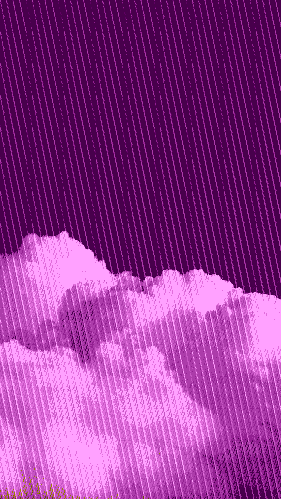
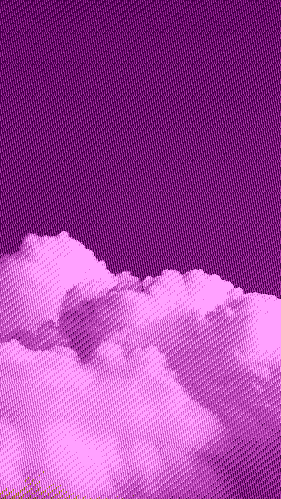
Added brokenspiral and modulosnake

diff --git a/src/dither/ordered/algorithms.rs b/src/dither/ordered/algorithms.rs
@@ -14,9 +14,30 @@ pub enum Wrapping {
 
 pub type OrderedMatrix = Array<f64, Dim<[usize; 2]>>;
 
+#[inline]
+fn gen_n_size_matrix(n: usize) -> OrderedMatrix {
+    Array::<f64, _>::zeros((n, n))
+}
+
+#[inline]
+fn gen_n_size_visitor_matrix(n: usize) -> Vec<Vec<bool>> {
+    vec![vec![false; n]; n]
+}
+
+fn normalize_matrix(matrix: OrderedMatrix) -> OrderedMatrix {
+    let mut max = 0.0;
+    for cell in matrix.iter() {
+        if *cell > max {
+            max = *cell;
+        }
+    }
+
+    matrix / max
+}
+
 pub fn dither_bayer(n: usize) -> OrderedMatrix {
     if n == 1 {
-        return Array::<f64, _>::zeros((1, 1));
+        return gen_n_size_matrix(n);
     }
 
     let nested_matrix = dither_bayer(n / 2);
@@ -34,8 +55,8 @@ pub fn dither_bayer(n: usize) -> OrderedMatrix {
 }
 
 pub fn generate_curve_path_matrix(n: usize, halt_threshold: usize, amplitude: f64, promotion: f64) -> OrderedMatrix {
-    let mut matrix =  Array::<f64, _>::zeros((n, n));
-    let mut visitor_m = vec![vec![false; n]; n];
+    let mut matrix =  gen_n_size_matrix(n);
+    let mut visitor_m = gen_n_size_visitor_matrix(n);
     let curve_end = PI / 2.;
     let c_factor = curve_end / n as f64;
 
@@ -65,22 +86,15 @@ pub fn generate_curve_path_matrix(n: usize, halt_threshold: usize, amplitude: f6
         i = i + 1;
     }
 
-    let mut max = 0.0;
-    for cell in matrix.iter() {
-        if *cell > max {
-            max = *cell;
-        }
-    }
-
-    matrix / max
+    normalize_matrix(matrix)
 }
 
 pub fn generate_zigzag_matrix(n: usize, halt_threshold: usize, wrapping: Wrapping, magnitude: (f64, f64), promotion: (f64, f64)) -> OrderedMatrix {
     let (magnitude_y, magnitude_x) = magnitude;
     let (promotion_y, promotion_x) = promotion;
     
-    let mut matrix =  Array::<f64, _>::zeros((n, n));
-    let mut visitor_m = vec![vec![false; n]; n];
+    let mut matrix =  gen_n_size_matrix(n);
+    let mut visitor_m = gen_n_size_visitor_matrix(n);
 
     let mut i = 0;
     let mut h = 0;
@@ -183,12 +197,119 @@ pub fn generate_zigzag_matrix(n: usize, halt_threshold: usize, wrapping: Wrappin
         i = i + 1;
     }
 
-    let mut max = 0.0;
-    for cell in matrix.iter() {
-        if *cell > max {
-            max = *cell;
+    normalize_matrix(matrix)
+}
+
+pub fn generate_broken_spiral_matrix(n: usize, base_step: (f64, f64), oob_threshold: usize, increment_by: f64, increment_every: usize) -> OrderedMatrix {
+    let mut matrix = gen_n_size_matrix(n);
+
+    let mut m = 1.;
+
+    loop {
+        let mut o = 0;
+        let mut i = 1;
+        let mut loc = (n as f64 / 2., n as f64 / 2.);
+        let mut moves = 0;
+
+        fn get_magnitude(i_by: f64, i_every: usize, moves: usize) -> f64 {
+            1.0 + ((moves / i_every) + 1) as f64 * i_by
+        }
+
+        let base_step = (base_step.0 * m, base_step.1 * m);
+
+        {
+            let loc_i = (loc.0 as usize, loc.1 as usize);
+            let point = matrix.get_mut((loc_i.0, loc_i.1)).unwrap();
+            *point = *point + get_magnitude(increment_by, increment_every, moves);
+            // println!("m: {m}, point: {loc_i:?}, point-value: {}", *point);
+        }
+
+        while o <= oob_threshold {
+            let disps = [
+                (-1. * base_step.0 * i as f64, 0.),
+                (0., base_step.1 * i as f64),
+                (base_step.0 * (i+1) as f64, 0.),
+                (0., -1. * base_step.1 * (i+1) as f64),
+            ];
+
+            for disp in disps {
+                let og_loc = loc;
+
+                loc = (loc.0 + disp.0, loc.1 + disp.1);
+
+                // if og_loc.0 == (n as f64) / 2. {
+                //     println!("m: {m}, i: {i}, new_loc: {loc:?}");
+                // }
+
+                let loc_i = (loc.0 as isize, loc.1 as isize);
+
+                if loc_i.0 < 0 || loc_i.1 < 0 || loc_i.0 >= n as isize || loc_i.1 >= n as isize {
+                    o = o + 1;
+                    continue;
+                } else {
+                    o = 0;
+                }
+
+                // let point = matrix.get_mut((loc_i.0 as usize, loc_i.1 as usize)).unwrap();
+                // *point = *point + 1.;
+
+                let move_in_x = disp.0 == 0.;
+
+                let get_coord = |coords: (f64, f64)| if move_in_x { coords.1 } else { coords.0 };
+
+                let min = get_coord(loc).min(get_coord(og_loc).min(n as f64).max(0.));
+                let max = get_coord(loc).max(get_coord(og_loc).min(n as f64).max(0.));
+
+                let other_coord = if move_in_x { og_loc.0 } else { og_loc.1 };
+
+                let mut draw_loc = min;
+
+                while draw_loc <= max {
+                    let p_coord = if move_in_x { (other_coord as usize, draw_loc as usize) } else { (draw_loc as usize, other_coord as usize) };
+                    let point = matrix.get_mut(p_coord).unwrap();
+                    *point = *point + get_magnitude(increment_by, increment_every, moves);
+                    // println!("{og_loc:?} - {loc:?} | incrementing: {p_coord:?} to {point}");
+                    draw_loc = draw_loc + if move_in_x { base_step.1 / m } else { base_step.0 / m };
+                    moves = moves + 1;
+                }
+                // println!("line-done!");
+            }
+
+            i = i + 2;
+        }
+        if i < o {
+            break;
+        }
+
+        m = m + 1.;
+    }
+
+    // println!("{matrix:#?}");
+
+    // let loc = (
+    //     n as f64 / 2.0,
+    //     n as f64 / 2.0,
+    // );
+    // let point = matrix.get_mut((loc.0 as usize, loc.1 as usize)).unwrap();
+    // println!("m: {m}, point: {loc:?}, point-value: {}", *point);
+
+    normalize_matrix(matrix)
+}
+
+pub fn generate_modulosnake(n: usize, increment_by: f64, modulo: usize, iterations: usize) -> OrderedMatrix {
+    let mut matrix = gen_n_size_matrix(n);
+
+    for _ in 0..iterations {
+        for (n, pixel) in matrix.iter_mut().enumerate() {
+            *pixel = ((n as f64 * increment_by) as usize % modulo) as f64;
         }
     }
 
-    matrix / max
+    normalize_matrix(matrix)
 }
+// 1 up
+// 1 right
+// 2 down
+// 2 left
+// 3 up
+// 3 right

diff --git a/src/lib.rs b/src/lib.rs
@@ -156,7 +156,7 @@ mod test {
     use palette::{Srgb, named};
 
     use crate::{
-        colour::utils::ONE_BIT, dither::{ordered::{algorithms::{generate_zigzag_matrix, Wrapping}, Ordered, OrderedStrategy::*, Orientation}, ATKINSON, BURKES, FLOYD_STEINBERG, JARVIS_JUDICE_NINKE, SIERRA, SIERRA_LITE, SIERRA_TWO_ROW, STUCKI}, prelude::{palettes::{EIGHT_BIT, WEB_SAFE}, *}
+        colour::utils::ONE_BIT, dither::{ordered::{algorithms::{generate_broken_spiral_matrix, generate_modulosnake, generate_zigzag_matrix, Wrapping}, Ordered, OrderedStrategy::*, Orientation}, ATKINSON, BURKES, FLOYD_STEINBERG, JARVIS_JUDICE_NINKE, SIERRA, SIERRA_LITE, SIERRA_TWO_ROW, STUCKI}, prelude::{palettes::{EIGHT_BIT, WEB_SAFE}, *}
     };
 
     type UtilResult<T> = Result<T,Box<dyn Error>>;
@@ -415,6 +415,10 @@ mod test {
         image.clone().apply(&Ordered::new(palette.clone(), CurvePath { n: 16, amplitude: 0.3, promotion: 0.005, halt_threshold: 100 }))
             .save(format!("data/dither/curve-path-16x16{}.png", postfix))?;
 
+        // zigzag
+        // broken-spiral
+        // modulosnake
+
         image.clone().apply(&Ordered::new(palette.clone(), Stars))
             .save(format!("data/dither/stars{}.png", postfix))?;
 
@@ -486,14 +490,11 @@ mod test {
 
         // Custom testing
         let n = 32;
-        let halt_threshold = 100;
-        let wrapping = Wrapping::All;
-        let magnitude_x = 0.5;
-        let magnitude_y = 0.1;
-        let promotion_x = 0.001;
-        let promotion_y = 0.002;
+        let increment_by = 0.8;
+        let modulo = 10;
+        let iterations = 3;
 
-        let matrix = generate_zigzag_matrix(n, halt_threshold, wrapping, (magnitude_y, magnitude_x), (promotion_y, promotion_x));
+        let matrix = generate_modulosnake(n, increment_by, modulo, iterations);
 
         image.clone().apply(&Ordered::new(palette.clone(), Custom(matrix)))
             .save(format!("data/dither/custom{}.png", postfix))?;

diff --git a/src/dither/ordered/mod.rs b/src/dither/ordered/mod.rs
@@ -3,7 +3,7 @@ use std::f64::consts::PI;
 use ndarray::{array, concatenate, Array, Axis, Dim};
 use palette::Srgb;
 
-use crate::{colour::utils::quantize_rgb, dither::ordered::algorithms::{dither_bayer, generate_curve_path_matrix, generate_zigzag_matrix, Wrapping}, effect::Effect, utils::image::RgbImageRepr};
+use crate::{colour::utils::quantize_rgb, dither::ordered::algorithms::{dither_bayer, generate_broken_spiral_matrix, generate_curve_path_matrix, generate_modulosnake, generate_zigzag_matrix, Wrapping}, effect::Effect, utils::image::RgbImageRepr};
 
 pub mod algorithms;
 
@@ -54,6 +54,19 @@ pub enum OrderedStrategy {
         wrapping: Wrapping,
         magnitude: (f64, f64),
         promotion: (f64, f64),
+    },
+    BrokenSpiral {
+        n: usize,
+        base_step: (f64, f64),
+        oob_threshold: usize,
+        increment_by: f64,
+        increment_in: usize
+    },
+    ModuloSnake {
+        n : usize,
+        increment_by: f64,
+        modulo: usize,
+        iterations: usize,
     },
     Invert(Box<OrderedStrategy>),
     Mirror(Box<OrderedStrategy>, MirrorLine),
@@ -454,6 +467,12 @@ impl OrderedStrategy {
             Self::ZigZag { n, halt_threshold, wrapping, magnitude, promotion } => {
                 generate_zigzag_matrix(n, halt_threshold, wrapping, magnitude, promotion)
             },
+            Self::BrokenSpiral { n, base_step, oob_threshold, increment_by, increment_in } => {
+                generate_broken_spiral_matrix(n, base_step, oob_threshold, increment_by, increment_in)
+            },
+            Self::ModuloSnake { n, increment_by, modulo, iterations } => {
+                generate_modulosnake(n, increment_by, modulo, iterations)
+            }
             Self::Invert(strategy) => {
                 1.0 - &strategy.get_matrix()
             },
